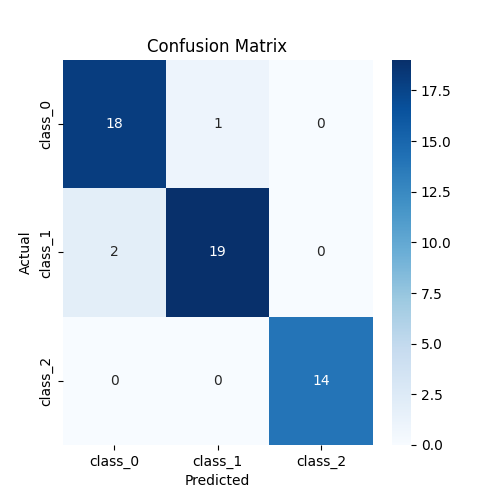
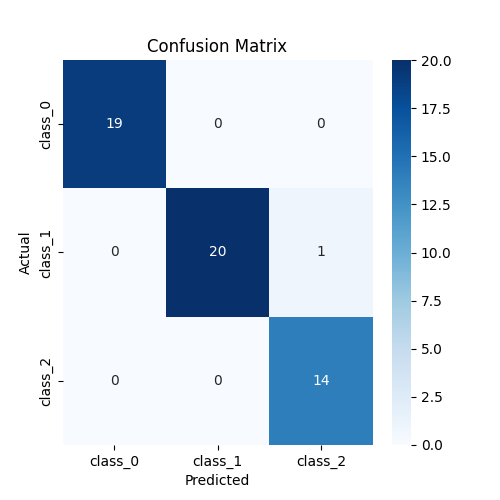
autolog implemented

diff --git a/main/mlflow_autolog.py b/main/mlflow_autolog.py
@@ -13,6 +13,7 @@ dagshub.init(repo_owner='PatilSri585', repo_name='MLOPS-MLFlow_End2End', mlflow=
 
 mlflow.set_tracking_uri('https://dagshub.com/PatilSri585/MLOPS-MLFlow_End2End.mlflow')
 mlflow.set_experiment("wine_analysis")
+mlflow.autolog()
 
 wine = load_wine()
 x=wine.data
@@ -25,7 +26,6 @@ n_estimators = 15
 
 with mlflow.start_run():
 
-    # mlflow.autolog()
 
     rf = RandomForestClassifier(max_depth = max_depth, n_estimators=n_estimators)
     rf.fit(x_train,y_train)
@@ -33,10 +33,10 @@ with mlflow.start_run():
     y_pred = rf.predict(x_test)
     accuracy = accuracy_score(y_test,y_pred)
 
-    mlflow.log_metric("accuracy",accuracy)
-    mlflow.log_param("max_depth",max_depth)
-    mlflow.log_param('n_estimators',n_estimators)
-    # mlflow.log_artifact("mlflow_demo.py", artifact_path="main")
+    # mlflow.log_metric("accuracy",accuracy)
+    # mlflow.log_param("max_depth",max_depth)
+    # mlflow.log_param('n_estimators',n_estimators)
+    # # mlflow.log_artifact("mlflow_demo.py", artifact_path="main")
 
     cm = confusion_matrix(y_test,y_pred)
     plt.figure(figsize=(5,5))
@@ -47,10 +47,10 @@ with mlflow.start_run():
 
     plt.savefig('confusion_matrix.png')
 
-    mlflow.log_artifact('confusion_matrix.png')
+    # mlflow.log_artifact('confusion_matrix.png')
     mlflow.log_artifact(__file__)
 
     mlflow.set_tags({'Author':'Harsha','Project':'Demo'})
-    mlflow.sklearn.log_model(rf,'Random-forest-model')
+    # mlflow.sklearn.log_model(rf,'Random-forest-model')
     
     print(accuracy)
